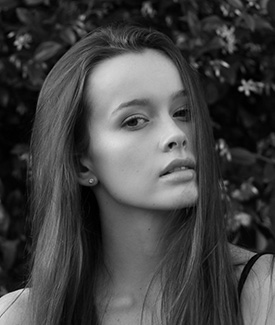
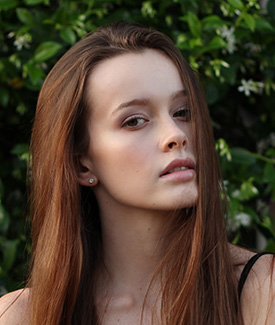
add markup reviews

diff --git a/app/index.html b/app/index.html
@@ -391,7 +391,122 @@
             </li>
           </ul>
       </section>
-      <section class="section reviews"></section>
+      <section class="section reviews">
+        <ul class="reviews__list">
+          <li class="reviews__item">
+            <div class="reviews__block">
+              <div class="reviews__pict reviews__pict--first"></div>
+              <div class="reviews__hover">
+                <h4 class="reviews__hover-title">Константин Спилберг</h4>
+                <p class="reviews__hover-text">
+                  Мысли все о них и о них, о них и о них. Нельзя
+                  устоять, невозможно забыть... Никогда не думал,
+                  что булочки могут быть такими мягкими, котлетка
+                  такой сочной, а сыр таким расплавленным.</p>
+                <a class="reviews__hover-link btn" href="#">Подробнее</a>
+              </div>
+            </div>
+          </li>
+          <li class="reviews__item">
+            <div class="reviews__block">
+              <div class="reviews__pict reviews__pict--second"></div>
+              <div class="reviews__hover">
+                <h4 class="reviews__hover-title">Константин Спилберг</h4>
+                <p class="reviews__hover-text">
+                  Мысли все о них и о них, о них и о них. Нельзя
+                  устоять, невозможно забыть... Никогда не думал,
+                  что булочки могут быть такими мягкими, котлетка
+                  такой сочной, а сыр таким расплавленным.</p>
+                <a class="reviews__hover-link btn" href="#">Подробнее</a>
+              </div>
+            </div>
+          </li>
+          <li class="reviews__item">
+            <div class="reviews__block">
+              <div class="reviews__pict reviews__pict--third"></div>
+              <div class="reviews__hover">
+                <h4 class="reviews__hover-title">Константин Спилберг</h4>
+                <p class="reviews__hover-text">
+                  Мысли все о них и о них, о них и о них. Нельзя
+                  устоять, невозможно забыть... Никогда не думал,
+                  что булочки могут быть такими мягкими, котлетка
+                  такой сочной, а сыр таким расплавленным.</p>
+                <a class="reviews__hover-link btn" href="#">Подробнее</a>
+              </div>
+            </div>
+          </li>
+          <li class="reviews__item">
+            <div class="reviews__block">
+              <div class="reviews__pict reviews__pict--fourth"></div>
+              <div class="reviews__hover">
+                <h4 class="reviews__hover-title">Константин Спилберг</h4>
+                <p class="reviews__hover-text">
+                  Мысли все о них и о них, о них и о них. Нельзя
+                  устоять, невозможно забыть... Никогда не думал,
+                  что булочки могут быть такими мягкими, котлетка
+                  такой сочной, а сыр таким расплавленным.</p>
+                <a class="reviews__hover-link btn" href="#">Подробнее</a>
+              </div>
+            </div>
+          </li>
+          <li class="reviews__item">
+            <div class="reviews__block">
+              <div class="reviews__pict reviews__pict--fifth"></div>
+              <div class="reviews__hover">
+                <h4 class="reviews__hover-title">Константин Спилберг</h4>
+                <p class="reviews__hover-text">
+                  Мысли все о них и о них, о них и о них. Нельзя
+                  устоять, невозможно забыть... Никогда не думал,
+                  что булочки могут быть такими мягкими, котлетка
+                  такой сочной, а сыр таким расплавленным.</p>
+                <a class="reviews__hover-link btn" href="#">Подробнее</a>
+              </div>
+            </div>
+          </li>
+          <li class="reviews__item">
+            <div class="reviews__block">
+              <div class="reviews__pict reviews__pict--sixth"></div>
+              <div class="reviews__hover">
+                <h4 class="reviews__hover-title">Константин Спилберг</h4>
+                <p class="reviews__hover-text">
+                  Мысли все о них и о них, о них и о них. Нельзя
+                  устоять, невозможно забыть... Никогда не думал,
+                  что булочки могут быть такими мягкими, котлетка
+                  такой сочной, а сыр таким расплавленным.</p>
+                <a class="reviews__hover-link btn" href="#">Подробнее</a>
+              </div>
+            </div>
+          </li>
+          <li class="reviews__item">
+            <div class="reviews__block">
+              <div class="reviews__pict reviews__pict--seventh"></div>
+              <div class="reviews__hover">
+                <h4 class="reviews__hover-title">Константин Спилберг</h4>
+                <p class="reviews__hover-text">
+                  Мысли все о них и о них, о них и о них. Нельзя
+                  устоять, невозможно забыть... Никогда не думал,
+                  что булочки могут быть такими мягкими, котлетка
+                  такой сочной, а сыр таким расплавленным.</p>
+                <a class="reviews__hover-link btn" href="#">Подробнее</a>
+              </div>
+            </div>
+          </li>
+          <li class="reviews__item">
+            <div class="reviews__block">
+              <div class="reviews__pict reviews__pict--eighth"></div>
+              <div class="reviews__hover">
+                <h4 class="reviews__hover-title">Константин Спилберг</h4>
+                <p class="reviews__hover-text">
+                  Мысли все о них и о них, о них и о них. Нельзя
+                  устоять, невозможно забыть... Никогда не думал,
+                  что булочки могут быть такими мягкими, котлетка
+                  такой сочной, а сыр таким расплавленным.</p>
+                <a class="reviews__hover-link btn" href="#">Подробнее</a>
+              </div>
+            </div>
+          </li>
+        </ul>
+      </section>
       <section class="section order"></section>
       <section class="section map">
         <div class="yandex-map"></div>

diff --git a/app/sass/blocks/reviews.scss b/app/sass/blocks/reviews.scss
@@ -1,3 +1,102 @@
 .reviews {
   background-color: $bg-5;
 }
+.reviews__list {
+  @extend %ul-reset;
+  @extend %clearfix;
+  height: 100%;
+}
+.reviews__item {
+  width: 25%;
+  height: 50%;
+  float: left;
+  &:hover {
+    .reviews__hover {
+      opacity: 1;
+      transform: scale(1);
+    }
+  }
+}
+.reviews__block {
+  position: relative;
+  width: 100%;
+  height: 100%;
+}
+.reviews__pict {
+  @include cover();
+  @include absolute-center;
+  filter: grayscale(100%);
+  &--first {
+    background-image: url(../img/content/review7@1x.jpg);
+    @media #{$retina} {
+      background-image: url(../img/content/review7@2x.jpg);
+    }
+  }
+  &--second {
+    background-image: url(../img/content/review8@1x.jpg);
+    @media #{$retina} {
+      background-image: url(../img/content/review8@2x.jpg);
+    }
+  }
+  &--third {
+    background-image: url(../img/content/review4@1x.jpg);
+    @media #{$retina} {
+      background-image: url(../img/content/review4@2x.jpg);
+    }
+  }
+  &--fourth {
+    background-image: url(../img/content/review2@1x.jpg);
+    @media #{$retina} {
+      background-image: url(../img/content/review2@2x.jpg);
+    }
+  }
+  &--fifth {
+    background-image: url(../img/content/review6@1x.jpg);
+    @media #{$retina} {
+      background-image: url(../img/content/review6@2x.jpg);
+    }
+  }
+  &--sixth {
+    background-image: url(../img/content/review5@1x.jpg);
+    @media #{$retina} {
+      background-image: url(../img/content/review5@2x.jpg);
+    }
+  }
+  &--seventh {
+    background-image: url(../img/content/review3@1x.jpg);
+    @media #{$retina} {
+      background-image: url(../img/content/review3@2x.jpg);
+    }
+  }
+  &--eighth {
+    background-image: url(../img/content/review1@1x.jpg);
+    @media #{$retina} {
+      background-image: url(../img/content/review1@2x.jpg);
+    }
+  }
+}
+.reviews__hover {
+  @include absolute-center;
+  padding: 50px 30px 0 20px;
+  background-color: $bg-8;
+  transform: scale(0.9);
+  opacity: 0;
+  transition: all .3s;
+}
+.reviews__hover-title {
+  font-size: 14px;
+  font-family: $gagalin-regular;
+  color: $light-1;
+}
+.reviews__hover-text {
+  margin-bottom: 20px;
+  font-size: 14px;
+  line-height: 1.71;
+  font-family: $ubuntu-light;
+  color: $light-1;
+}
+.reviews__hover-link {
+  padding: 9px 15px;
+  color: $light-1;
+  background-color: $dark-1;
+}

diff --git a/app/sass/variables.scss b/app/sass/variables.scss
@@ -27,6 +27,7 @@ $bg-4: #f5f2ed;
 $bg-5: #d5d5d5;
 $bg-6: rgba(227,80,40, .4);
 $bg-7: rgba(255, 255, 255, .9);
+$bg-8: rgba(20, 20, 20, .7);
 
 /*размер шрифта*/
 $font-size-base: 16px;
